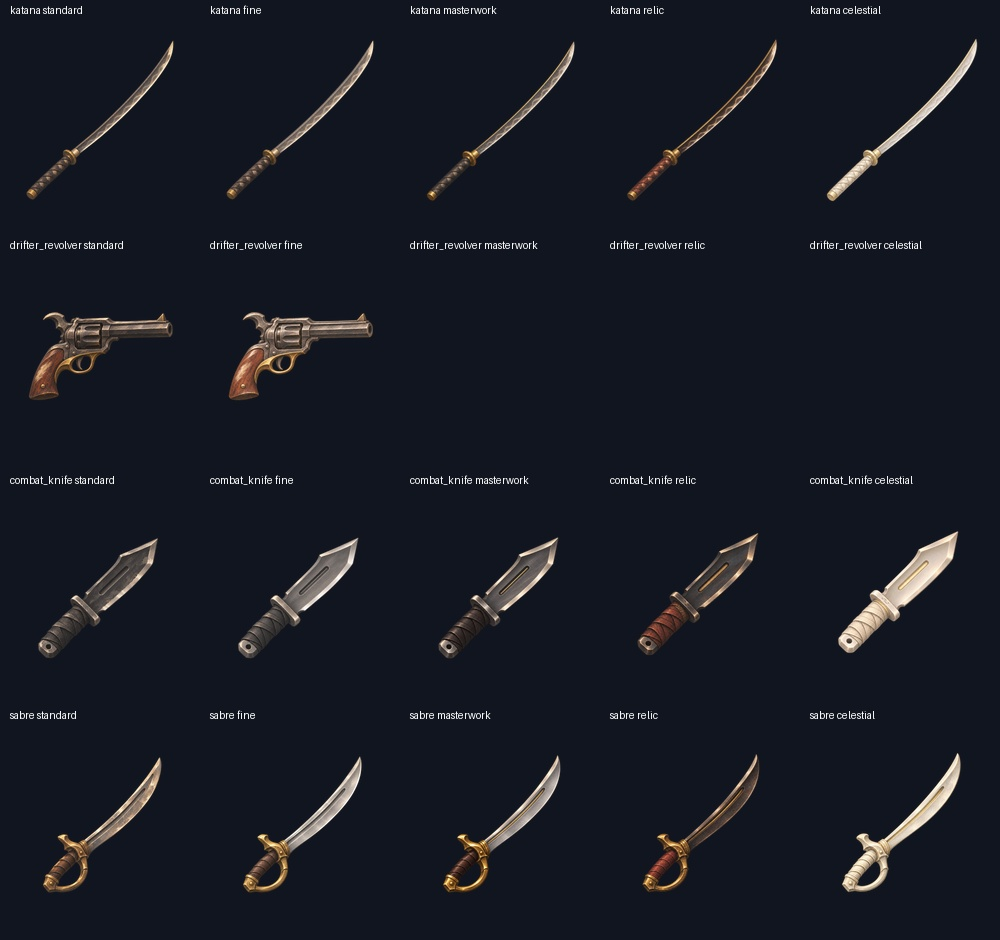
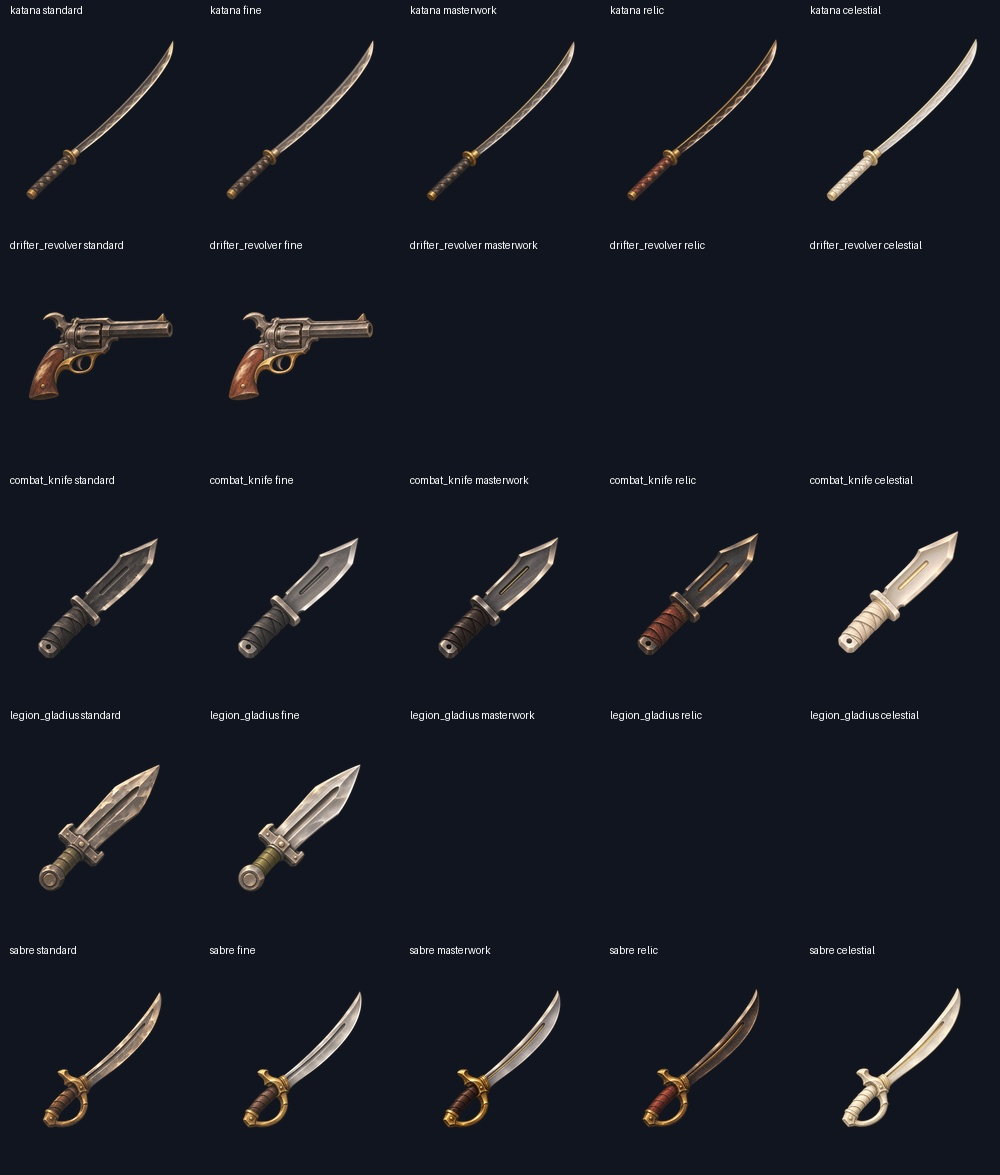
Archive legion_gladius fine grade proof

diff --git a/art/_archive/prompt-pack/2026-11-19-file-08/PROGRESS.md b/art/_archive/prompt-pack/2026-11-19-file-08/PROGRESS.md
@@ -1,5 +1,5 @@
 # Grade proof progress
 
-15 archived PNG attempts, including earlier Fine trials. The composite shows the current candidate for each finish.
+16 archived PNG attempts, including earlier Fine trials. The composite shows the current candidate for each finish.
 
 [Proof progress](review/complete-proof-progress.jpg)
